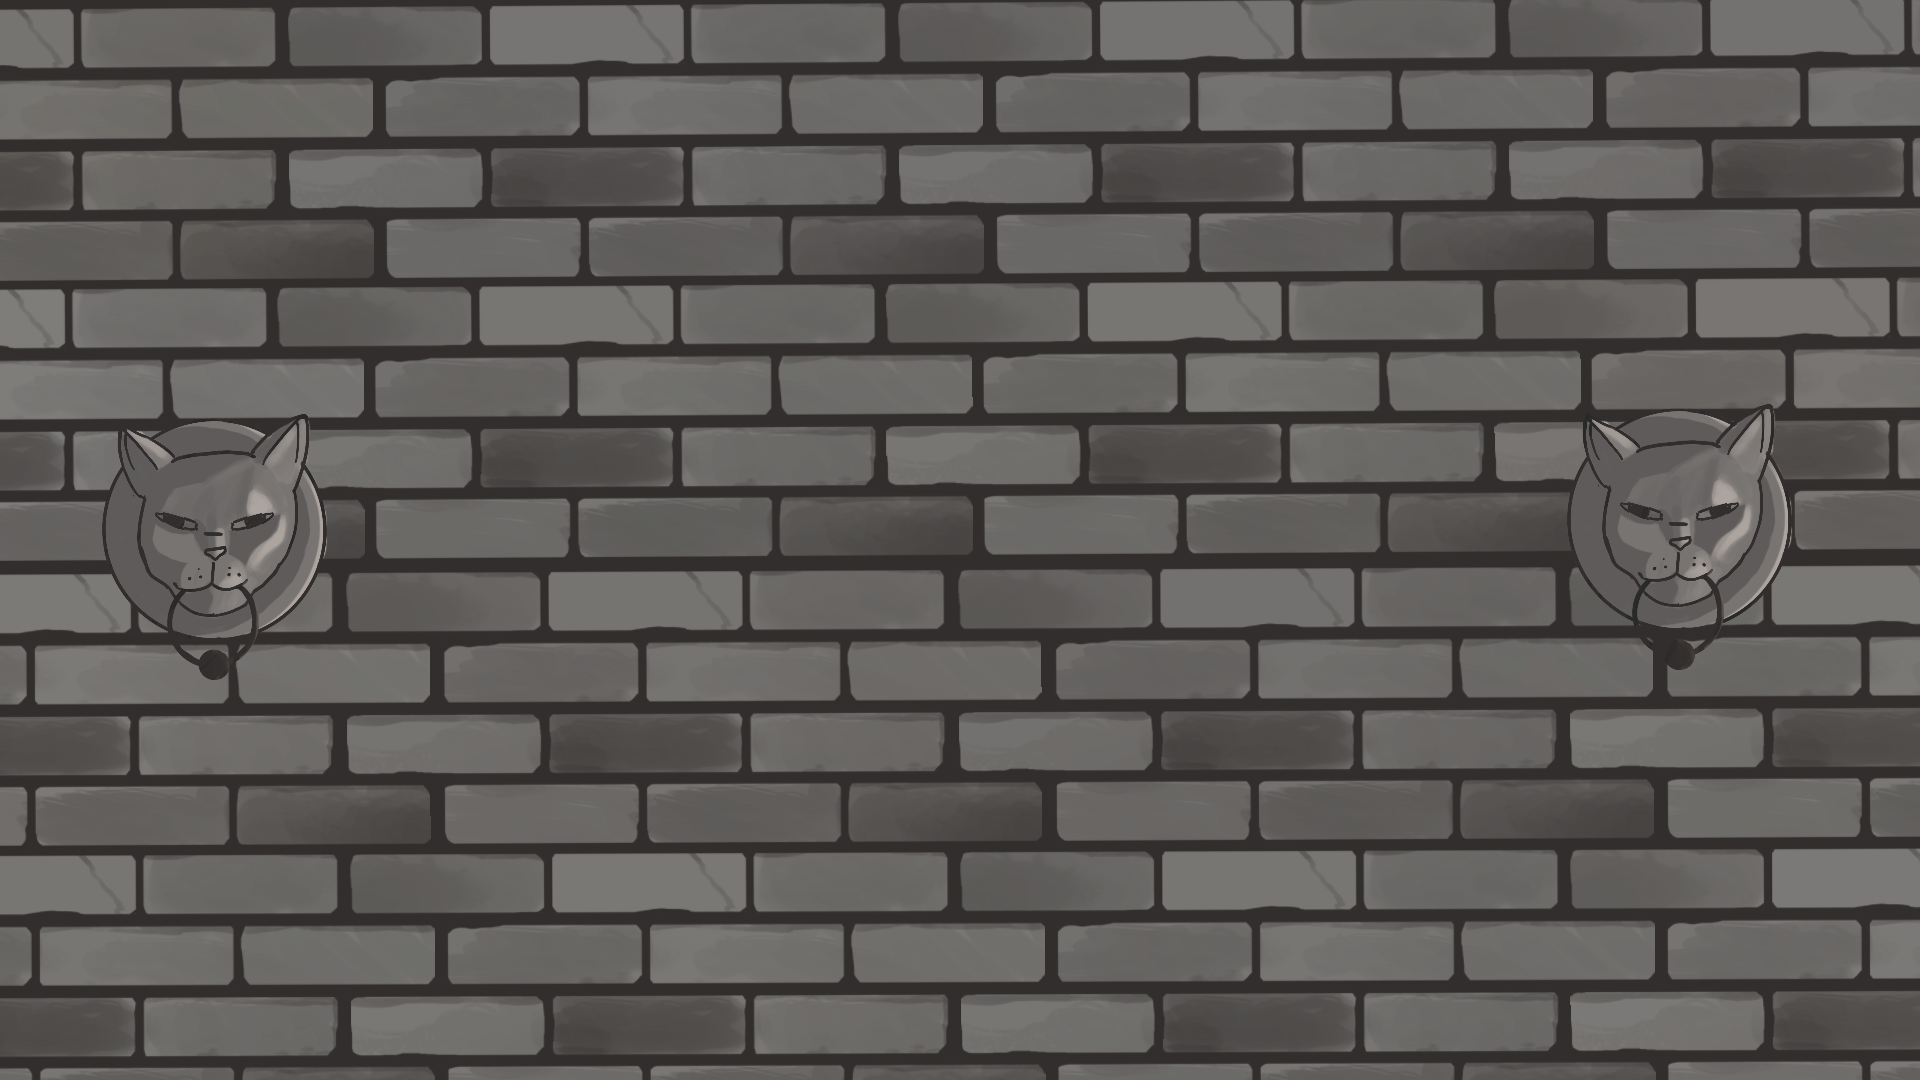
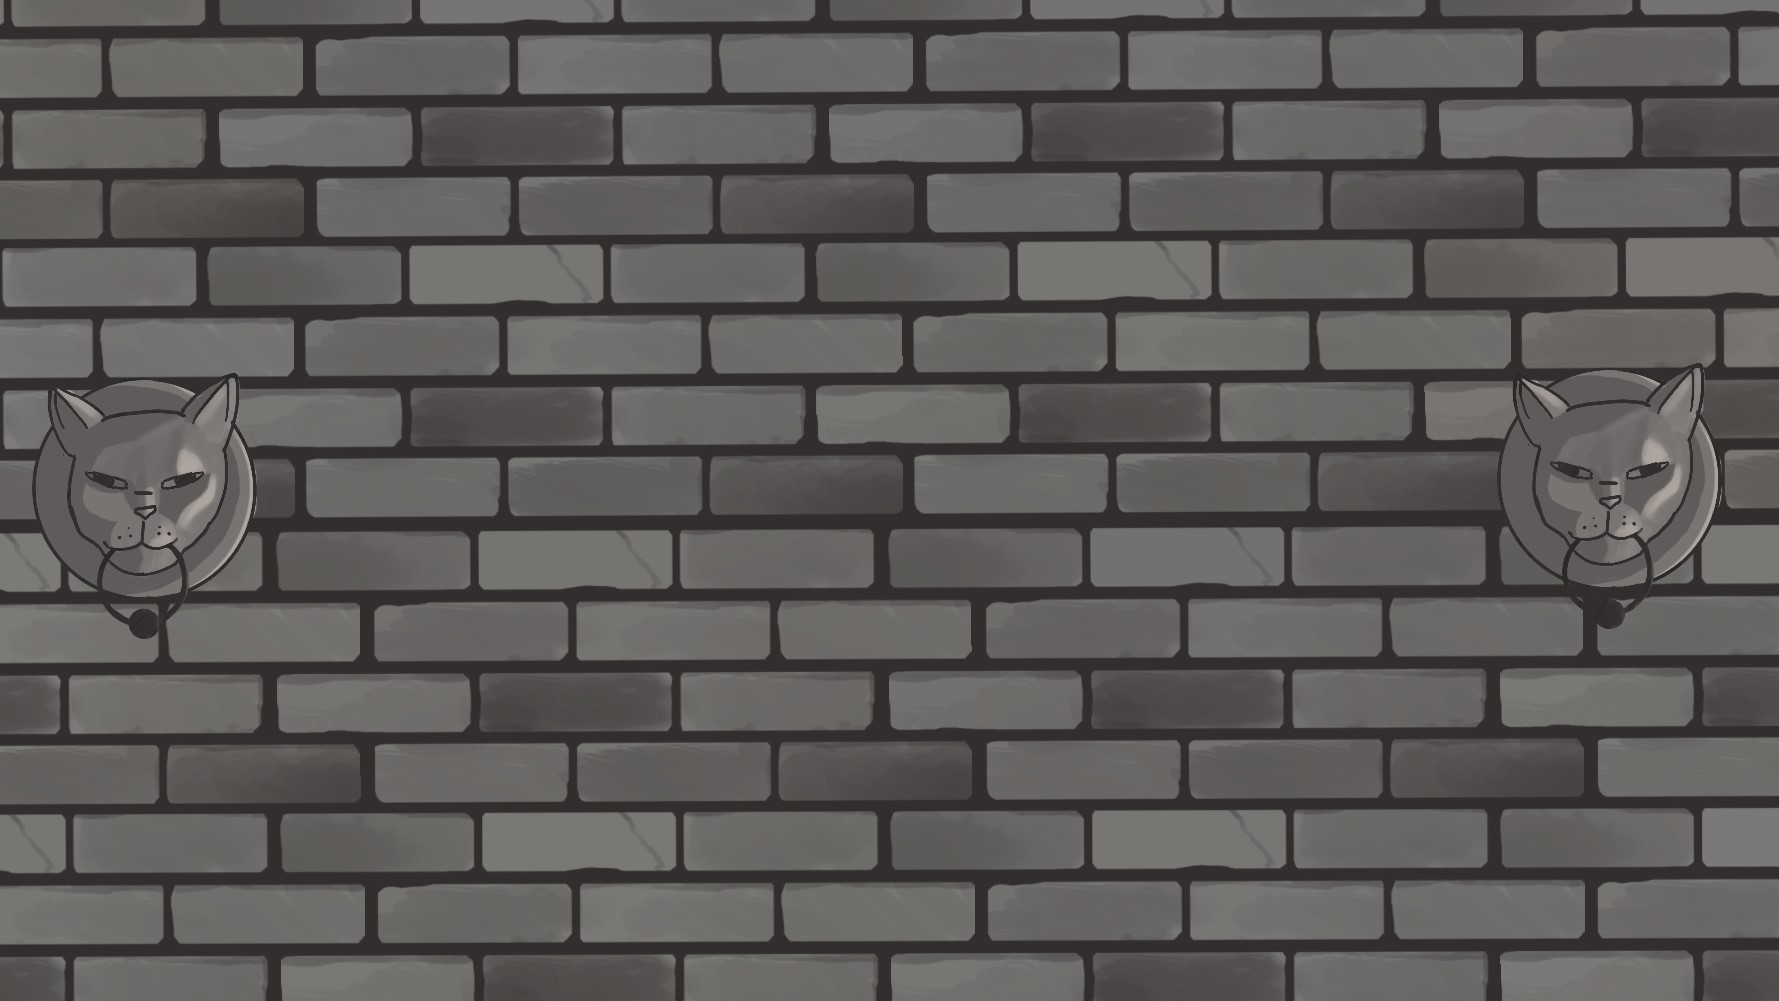
Add files via upload

diff --git a/index.html b/index.html
@@ -25,26 +25,26 @@
     <main>
         <h1>Tails of War</h1>
         <div id = "main"></div>
-        <img src="images/loading_screen.png" width = "1200" alt = "Tails of War option menu screen">
+        <img src="images/loading_screen.png" width = "1000" alt = "Tails of War option menu screen">
         <p>"Tails of War" is a cat-themed turn-based tactics game featuring singleplayer and multiplayer modes. 
             Explore a detailed in-game codex for insights on commanders, objectives, specials, terrain, and units, 
             enhancing your strategic experience.
         </p>
         
         <h2>World Map</h2>
-        <img src="images/world_map.png" width = "1200" alt = "World map of the game to pick different terrains">
+        <img src="images/world_map.png" width = "1000" alt = "World map of the game to pick different terrains">
         <p>The map is divided into tundra, grass, and desert biomes. Each faction comprises both female and male champions, 
             along with their respective units defending capitals, barracks, and villages. Which champion will you choose to conquer the world?
          </p>
         
         <div class="row">
             <div class="column">
-                <img src="images/wargroove.jpg" width = "400" alt = "Wargroove cover art">
-                <p class="spacing"><a href="https://wargroove.org">Game Inspiration</a></p>
+                <img src="images/wargroove.jpg" width = "300" alt = "Wargroove cover art">
+                <p class="spacing"><a href="https://wargroove.com">Game Inspiration</a></p>
             </div>
             
             <div class="column">
-                <img class="img_round" src="images/chucklefish.jpg" width = "400" alt = "Chucklefish is a British video game developer and publisher based in London">
+                <img class="img_round" src="images/chucklefish.jpg" width = "300" alt = "Chucklefish is a British video game developer and publisher based in London">
                 <p class="spacing"><a href="https://chucklefish.org">Wargroove Developer and Publisher</a></p>
             </div>
         </div>

diff --git a/css/style.css b/css/style.css
@@ -7,13 +7,13 @@ body {
 .skip a {
     transition: top 1s ease-out;
     position: absolute;
-    top: -40px;
+    top: -50px;
     margin-left: 20px;
-    font-size: 40px;
+    font-size: 35px;
 }
 
 .skip a:focus {
-    top: 100px;
+    top: 70px;
     text-decoration: underline;
 }
 
@@ -43,7 +43,7 @@ body {
 
 .navbar .links a {
     text-decoration: none;
-    font-size: 50px;
+    font-size: 35px;
     color: #333;
 }
 
@@ -57,11 +57,6 @@ body {
 .links li {
     display: inline-block;
     margin-right: 48px;
-}
-
-.links a {
-    text-decoration: none;
-    font-size: 40px;
 }
 
 a.btn:focus,
@@ -86,8 +81,8 @@ a.btn.active:focus {
 }
 
 h1 {
-    margin-top: 130px;
-    font-size: 80px;
+    margin-top: 100px;
+    font-size: 60px;
     text-align: center;
     margin-bottom: 40px;
     text-decoration: underline;
@@ -96,7 +91,7 @@ h1 {
 h2 {
     margin-top: 100px;
     margin-bottom: 40px;   
-    font-size: 65px;
+    font-size: 50px;
     text-align: center;
 }
 
@@ -112,7 +107,7 @@ main {
 }
 
 p {
-    font-size: 40px;
+    font-size: 30px;
     text-align: center;
     line-height: 1.75;
     margin: 35px 70px 80px 70px;
@@ -159,12 +154,12 @@ footer {
 .left_arrow, .right_arrow {
     width: 200px; /* Adjust the width of the arrows as needed */
     height: auto;
-    margin: 0px 3%; /* Adjust the margin as needed */
+    margin: 0px 5%; /* Adjust the margin as needed */
     cursor: pointer;
 }
 
 .arrow_container h1 {
-    margin: 5px; /* Adjust the top margin as needed */
+    margin: 0px 0px 0px 0px; /* Adjust the top margin as needed */
 }
 
 .card_container {
@@ -181,8 +176,8 @@ footer {
 }
 
 .card-inner {
-    width: 500px; /* Adjusted card width */
-    height: 500px; /* Adjusted card height */
+    width: 400px; /* Adjusted card width */
+    height: 400px; /* Adjusted card height */
     transform-style: preserve-3d;
     transition: transform 0.5s;
 }
